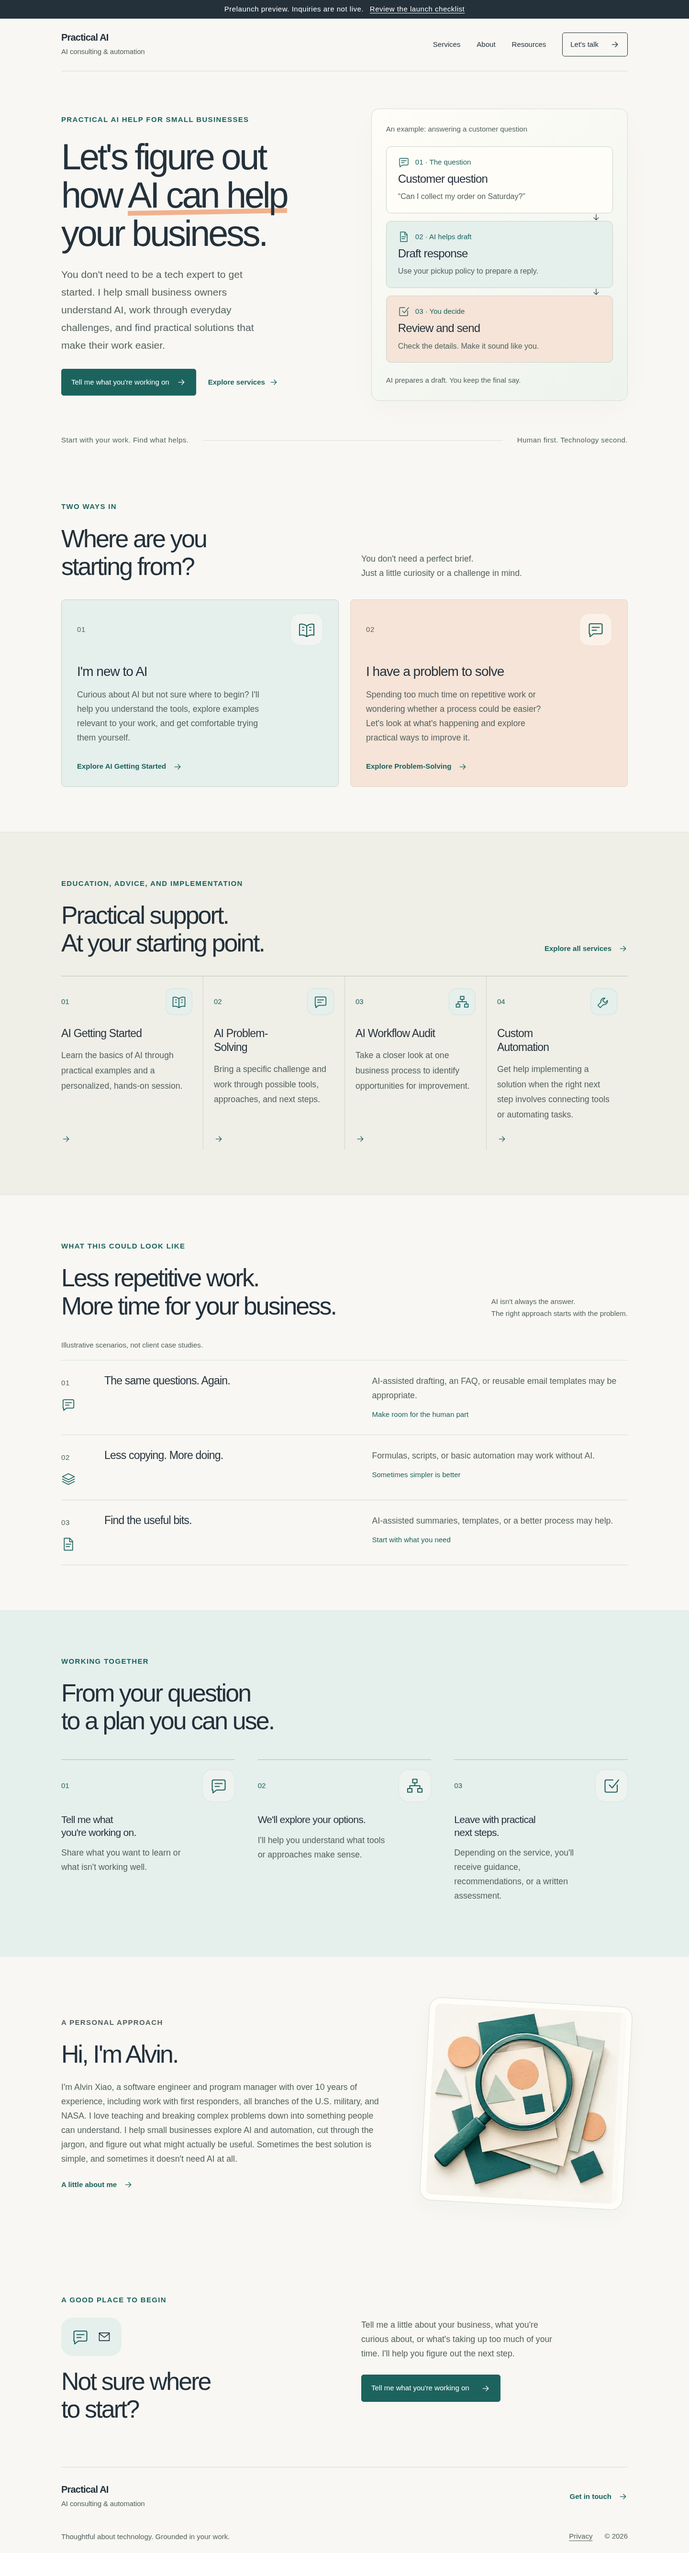
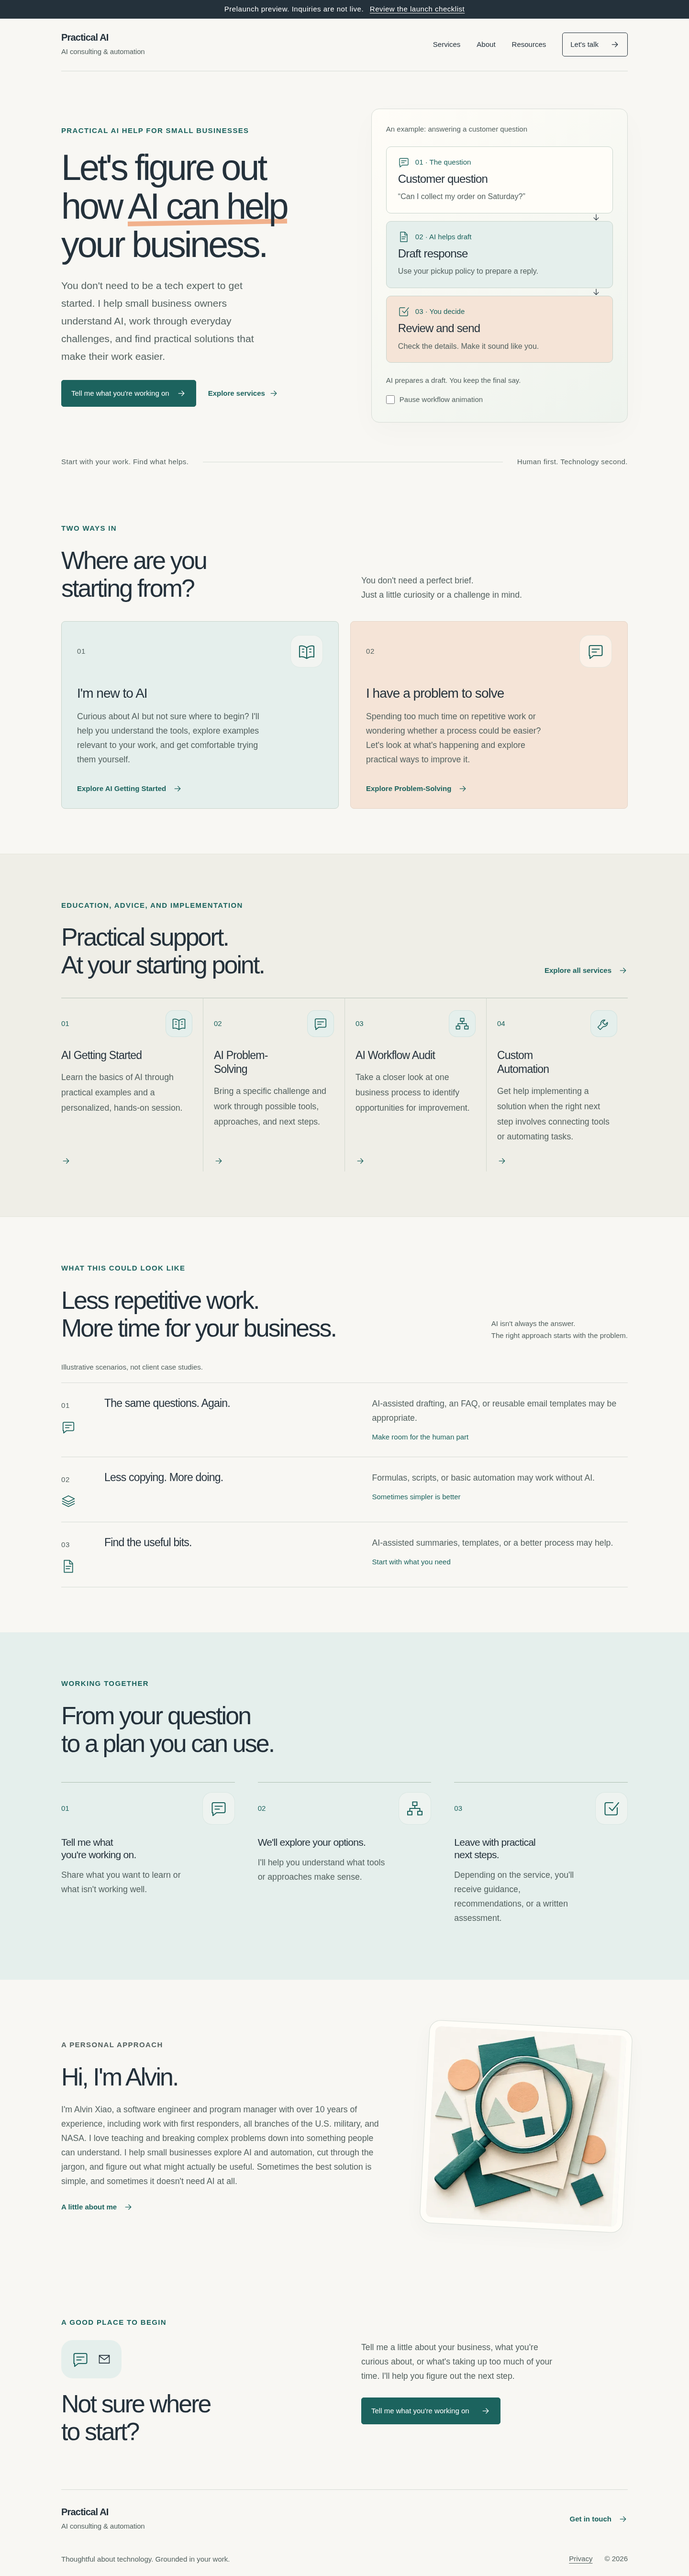
Animate the example workflow with sequential progress and pause control

diff --git a/src/styles/global.css b/src/styles/global.css
@@ -1390,17 +1390,6 @@ h3 {
     padding: 18px;
   }
 }
-@media (prefers-reduced-motion: no-preference) {
-  .workflow-steps li {
-    animation: settle-in 700ms var(--ease-out) backwards;
-  }
-  .workflow-steps li:nth-child(2) {
-    animation-delay: 100ms;
-  }
-  .workflow-steps li:nth-child(3) {
-    animation-delay: 200ms;
-  }
-}
 
 .personal-intro p {
   max-width: 760px;
@@ -1546,5 +1535,125 @@ h3 {
   .example-visual .section-icon {
     width: 24px;
     height: 24px;
+  }
+}
+
+.workflow-motion-control {
+  display: none;
+}
+@media (prefers-reduced-motion: no-preference) {
+  .workflow-motion-control {
+    display: inline-flex;
+    align-items: center;
+    gap: 10px;
+    margin-top: 16px;
+    font-size: var(--text-caption);
+    color: var(--muted);
+    cursor: pointer;
+  }
+  .workflow-motion-control input {
+    width: 18px;
+    height: 18px;
+    margin: 0;
+    accent-color: var(--teal-dark);
+  }
+  .workflow-steps li {
+    --step-delay: 0s;
+    animation: workflow-focus 10.8s ease-in-out infinite;
+    animation-delay: var(--step-delay);
+  }
+  .workflow-steps li:nth-child(2) {
+    --step-delay: 3.6s;
+  }
+  .workflow-steps li:nth-child(3) {
+    --step-delay: 7.2s;
+  }
+  .workflow-steps li::after {
+    content: '';
+    position: absolute;
+    bottom: 0;
+    left: 12px;
+    right: 12px;
+    height: 3px;
+    border-radius: 3px;
+    background: var(--teal-dark);
+    transform: scaleX(0);
+    transform-origin: left;
+    animation: workflow-progress 10.8s linear infinite;
+    animation-delay: var(--step-delay);
+  }
+  .workflow-number .section-icon {
+    animation: workflow-icon 10.8s var(--ease-out) infinite;
+    animation-delay: var(--step-delay);
+  }
+  .workflow-steps > li > svg {
+    animation: workflow-handoff 10.8s var(--ease-out) infinite;
+    animation-delay: var(--step-delay);
+  }
+  .workflow-illustration:has(.workflow-motion-control input:checked) .workflow-steps *,
+  .workflow-illustration:has(.workflow-motion-control input:checked) .workflow-steps *::after {
+    animation-play-state: paused;
+  }
+}
+@keyframes workflow-focus {
+  0%,
+  33%,
+  100% {
+    border-color: #c7d4cc;
+    box-shadow: 0 0 0 0 #247e7800;
+  }
+  5%,
+  27% {
+    border-color: var(--teal);
+    box-shadow:
+      0 0 0 3px #247e7814,
+      0 6px 20px #24313b08;
+  }
+}
+@keyframes workflow-progress {
+  0% {
+    transform: scaleX(0);
+    opacity: 1;
+  }
+  27% {
+    transform: scaleX(1);
+    opacity: 1;
+  }
+  32% {
+    transform: scaleX(1);
+    opacity: 0;
+  }
+  33%,
+  100% {
+    transform: scaleX(0);
+    opacity: 0;
+  }
+}
+@keyframes workflow-icon {
+  0%,
+  33%,
+  100% {
+    transform: scale(1);
+  }
+  7%,
+  23% {
+    transform: scale(1.12);
+  }
+}
+@keyframes workflow-handoff {
+  0%,
+  23%,
+  33%,
+  100% {
+    translate: 0 0;
+    opacity: 0.55;
+  }
+  27% {
+    translate: 0 5px;
+    opacity: 1;
+  }
+  31% {
+    translate: 0 0;
+    opacity: 1;
   }
 }

diff --git a/tests/browser/workflow-motion.spec.ts b/tests/browser/workflow-motion.spec.ts
@@ -1,0 +1,68 @@
+import { expect, test } from '@playwright/test';
+
+test('workflow attention progresses from question to draft to human review', async ({ page }) => {
+  await page.goto('/');
+  const workflow = page.locator('.workflow-illustration');
+  const stages: [number, number][] = [
+    [1000, 0],
+    [4600, 1],
+    [8200, 2],
+  ];
+  for (const [time, activeStep] of stages) {
+    const borders = await workflow.evaluate((figure, currentTime) => {
+      for (const animation of figure.getAnimations({ subtree: true })) {
+        animation.pause();
+        animation.currentTime = currentTime;
+      }
+      return [...figure.querySelectorAll('li')].map(
+        (step) => getComputedStyle(step).borderTopColor,
+      );
+    }, time);
+    expect(borders[activeStep]).toBe('rgb(36, 126, 120)');
+    expect(borders.filter((border) => border === 'rgb(36, 126, 120)')).toHaveLength(1);
+  }
+});
+
+test('pause control stops cards, progress lines, and arrows without JavaScript', async ({
+  browser,
+}) => {
+  const context = await browser.newContext({ javaScriptEnabled: false });
+  try {
+    const page = await context.newPage();
+    await page.goto('http://127.0.0.1:4321/');
+    const pause = page.getByRole('checkbox', { name: 'Pause workflow animation' });
+    await pause.check();
+    const states = await page
+      .locator('.workflow-steps li')
+      .evaluateAll((steps) =>
+        steps.flatMap((step) => [
+          getComputedStyle(step).animationPlayState,
+          getComputedStyle(step, '::after').animationPlayState,
+          ...[...step.querySelectorAll('svg')].map(
+            (icon) => getComputedStyle(icon).animationPlayState,
+          ),
+        ]),
+      );
+    expect(states.every((state) => state === 'paused')).toBe(true);
+    await pause.uncheck();
+    await expect(page.locator('.workflow-steps li').first()).toHaveCSS(
+      'animation-play-state',
+      'running',
+    );
+  } finally {
+    await context.close();
+  }
+});
+
+test('reduced motion keeps the workflow static and all steps readable', async ({ page }) => {
+  await page.emulateMedia({ reducedMotion: 'reduce' });
+  await page.goto('/');
+  await expect(page.getByRole('checkbox', { name: 'Pause workflow animation' })).toBeHidden();
+  for (const step of await page.locator('.workflow-steps li').all()) {
+    await expect(step).toBeVisible();
+    await expect(step).toHaveCSS('animation-name', 'none');
+    expect(
+      await step.evaluate((element) => getComputedStyle(element, '::after').animationName),
+    ).toBe('none');
+  }
+});

diff --git a/docs/review/README.md b/docs/review/README.md
@@ -35,3 +35,9 @@ The [mobile article screenshot](article-mobile.png) records the illustrated firs
 ## Homepage visual polish
 
 Every main-page section now includes an illustration or a meaningful line icon. A shared SVG component keeps the line weight and colors consistent across learning, conversation, workflow, implementation, and review symbols. The personal introduction reuses the generated magnifying-glass artwork, with no invented portrait or client logos. Icons are decorative and hidden from assistive technology; all meaning remains in visible text. Hover movement respects reduced-motion preferences.
+
+## Workflow progression
+
+The homepage workflow repeats a 10.8-second sequence, with 3.6 seconds per step. Card borders, progress lines, icons, and arrow handoffs advance together while the copy stays visible. A labelled checkbox pauses the full sequence without JavaScript. Reduced-motion preferences disable the animation and hide the unnecessary control. Browser checks cover the three phases, pause/resume, and reduced motion.
+
+Review frames: [question](workflow-step-1.png), [draft](workflow-step-2.png), and [human review](workflow-step-3.png). These show an illustrative process, not an actual inquiry or message being sent.
